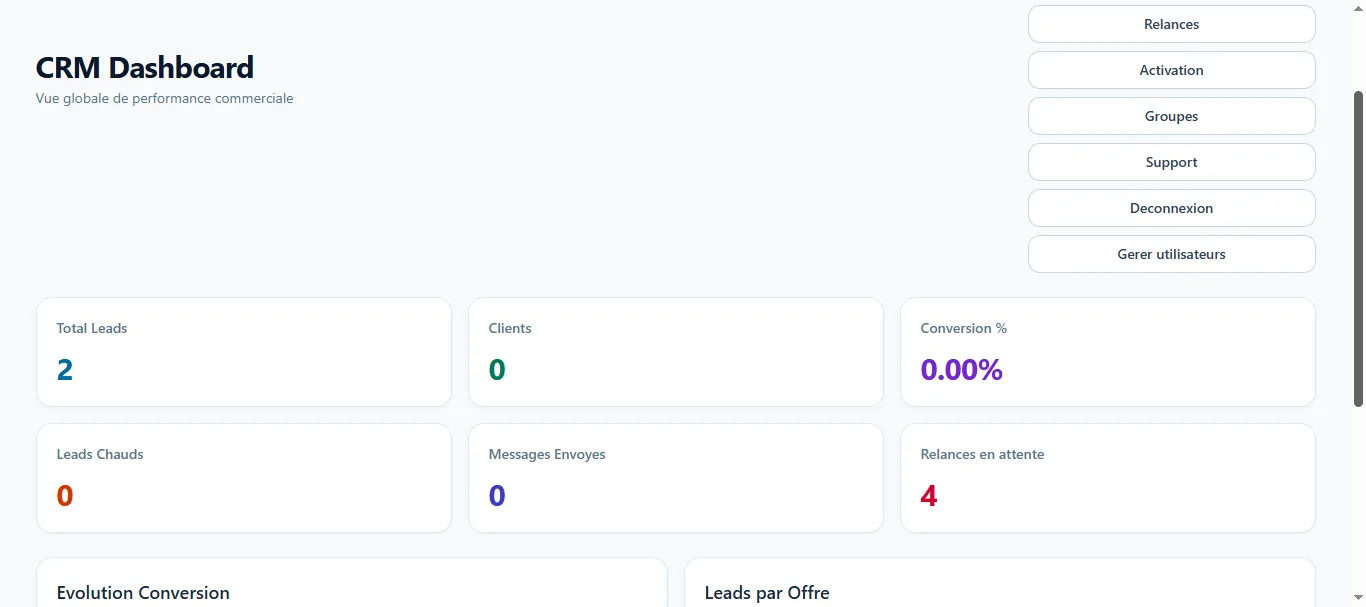
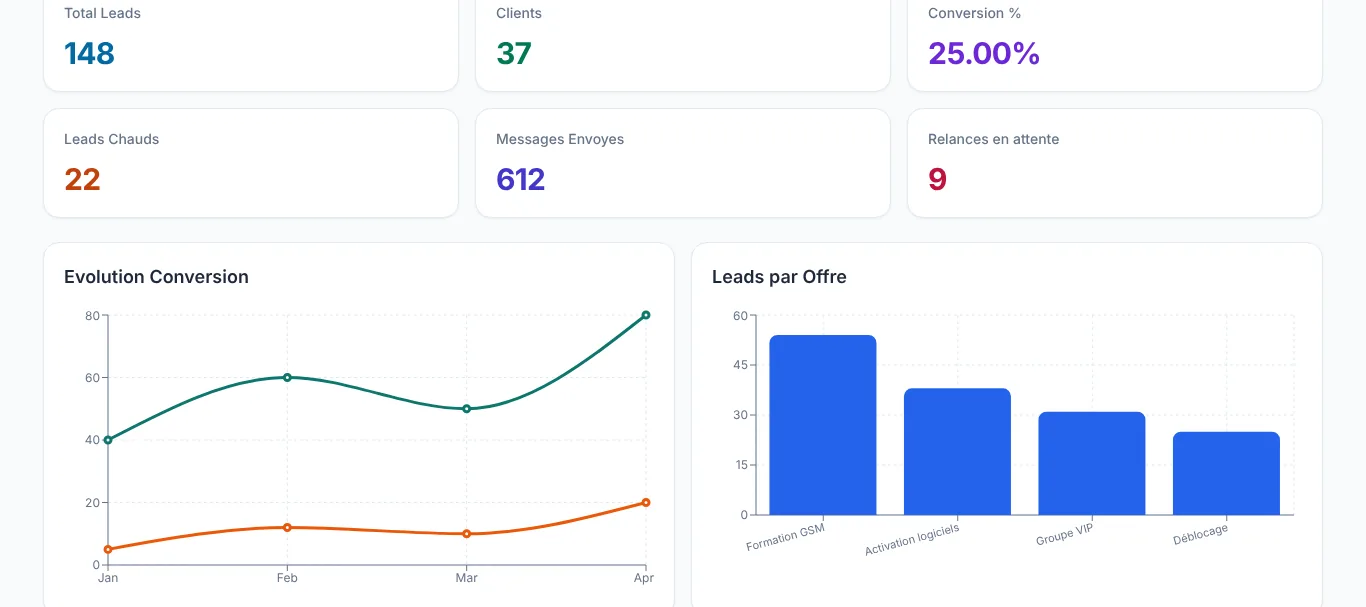
feat: capture du CRM avec données de démonstration
Rendue depuis la vraie interface du CRM, cadrée sur les indicateurs et les graphiques.

Claude-Session: https://claude.ai/code/session_01SUSTTXn8LbnuuSK7b2NaeD

diff --git a/src/content/projects/crm-invincibo-gsm.md b/src/content/projects/crm-invincibo-gsm.md
@@ -15,7 +15,7 @@ capabilities:
   - Gestion des tâches
   - Accompagnements
 coverImage: /projects/crm-invincibo-gsm.webp
-coverImageAlt: "Tableau de bord du CRM : leads, clients, conversion et relances"
+coverImageAlt: "Tableau de bord du CRM : leads, clients, conversion, relances et leads par offre (données de démonstration)"
 contribution: Conçu et développé seul.
 featured: false
 statusLabel: Outil interne
